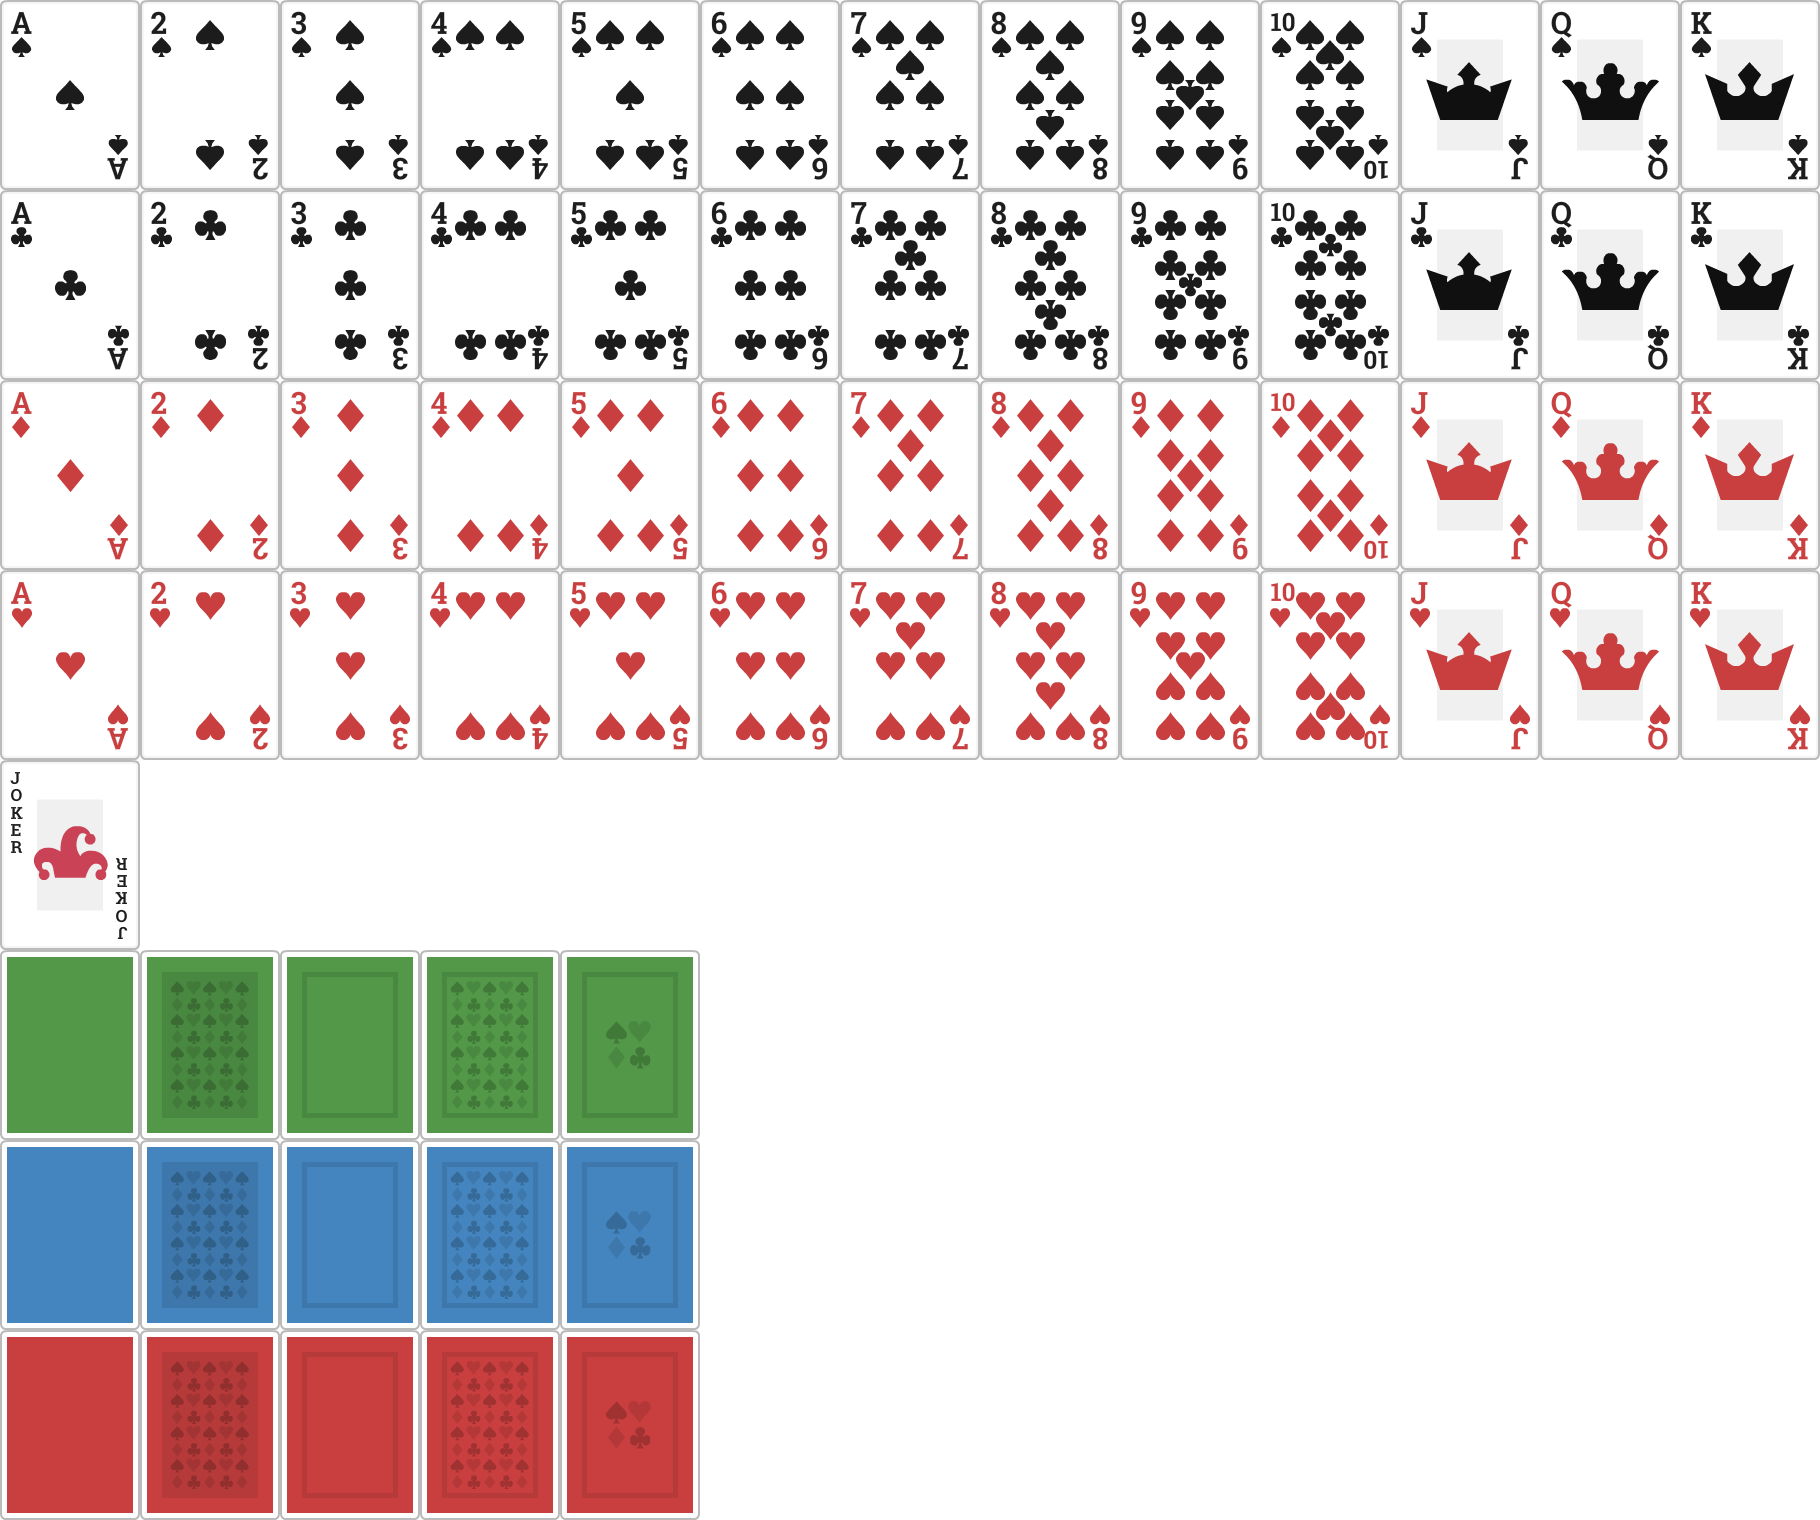
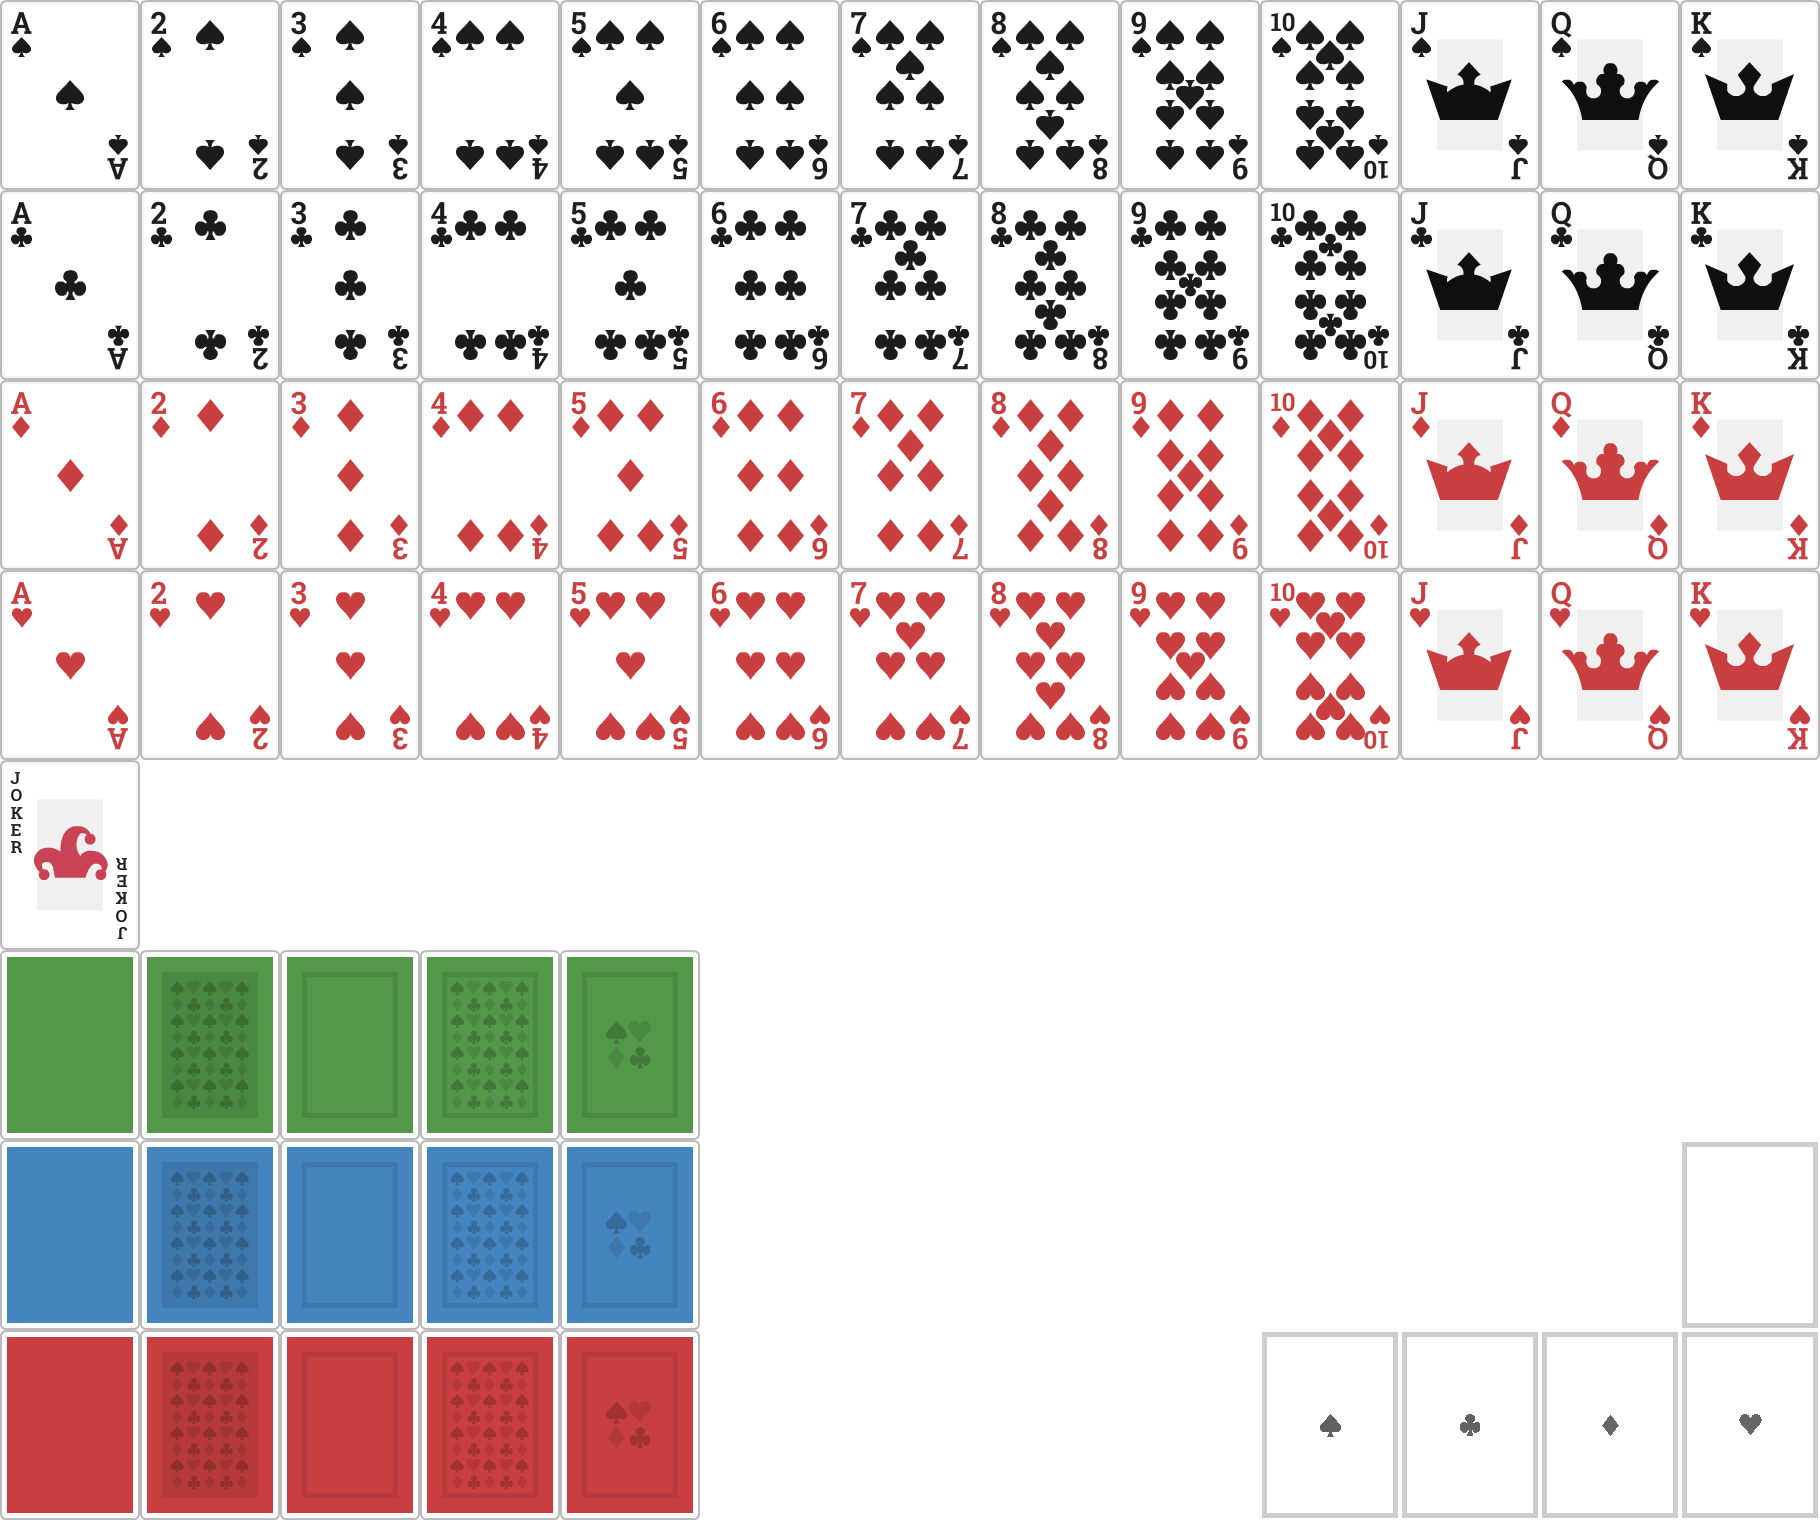
Change empty card stack art

Changed region(s): [[0.6769, 0.7421, 1.0, 1.0], [0.7077, 0.9276, 0.7385, 0.9586]]

diff --git a/src/main.rs b/src/main.rs
@@ -11,6 +11,8 @@ use rand::prelude::*;
 const BACK_GREEN: usize = 5 * 13;
 const BACK_BLUE: usize = 6 * 13;
 const BACK_RED: usize = 7 * 13;
+const FINAL_STACKS: usize = 7 * 13 + 9;
+const EMPTY_SPACE: usize = 6 * 13 + 12;
 
 const CARD_WIDTH: f32 = 140.0;
 const CARD_HEIGHT: f32 = 190.0;
@@ -323,38 +325,38 @@ fn main() {
         .add_event::<Clicked>()
         .add_event::<Dropped>()
         .add_event::<MoveCard>()
-        .add_startup_system(setup.system())
+        .add_startup_system(setup)
         .add_system_set(
             SystemSet::on_enter(GameState::Menu)
-                .with_system(setup_menu.system())
+                .with_system(setup_menu)
         )
         .add_system_set(
             SystemSet::on_update(GameState::Menu)
-                .with_system(main_menu.system())
+                .with_system(main_menu)
         )
         .add_system_set(
             SystemSet::on_enter(GameState::Shuffle)
-                .with_system(reset_cards.system())
+                .with_system(reset_cards)
         )
         .add_system_set_to_stage(
-            // Run these before update so we ar absolutely sure commands are completed early
+            // Run these before update so we are absolutely sure commands are completed early
             CoreStage::PreUpdate,
             SystemSet::new()
-                .with_system(card_move_system.system())
+                .with_system(card_move_system)
         )
         .add_system_set(
             SystemSet::on_update(GameState::Playing)
-                .with_system(click_system.system().label("click"))
-                .with_system(update_click_timers.system().before("click"))
-                .with_system(clicked_system.system().after("click"))
-                .with_system(drag_system.system().label("drag").after("click"))
-                .with_system(drop_system.system().label("drop").before("click"))
-                .with_system(win_check_system.system().after("click"))
-                .with_system(card_texture_update_system.system())
-                .with_system(deck_update_system.system().after("click"))
-                .with_system(debug_duplicate_children.system())
-                .with_system(fixup_children_system.system())
-                .with_system(reset_game_button.system())
+                .with_system(click_system.label("click"))
+                .with_system(update_click_timers.before("click"))
+                .with_system(clicked_system.after("click"))
+                .with_system(drag_system.label("drag").after("click"))
+                .with_system(drop_system.label("drop").before("click"))
+                .with_system(win_check_system.after("click"))
+                .with_system(card_texture_update_system)
+                .with_system(deck_update_system.after("click"))
+                .with_system(debug_duplicate_children)
+                .with_system(fixup_children_system)
+                .with_system(reset_game_button)
         )
         .add_system_set_to_stage(
             // Run the stack cleanup code in postupdate, otherwise there will be a 1 frame
@@ -447,7 +449,7 @@ fn reset_cards(
     mut reset_button: Query<&mut Style, With<ResetButton>>
 ) {
     for entity in cleanup.iter() {
-        commands.entity(entity).despawn();
+        commands.entity(entity).despawn_recursive();
     }
 
     let mut rng = rand::thread_rng();
@@ -477,8 +479,7 @@ fn reset_cards(
             commands.spawn_bundle(SpriteSheetBundle {
                     texture_atlas: card_texture.0.clone(),
                     sprite: TextureAtlasSprite {
-                        color: Color::rgb(0.1, 0.1, 0.1),
-                        index: BACK_BLUE,
+                        index: EMPTY_SPACE,
                         ..Default::default()
                     },
                     transform: Transform::from_xyz(pos.x, pos.y, 0.0),
@@ -536,22 +537,34 @@ fn reset_cards(
 
     let deck_pos = Vec2::new((CARD_WIDTH / 2.0) + 50.0, window.height - 25.0 - (CARD_HEIGHT / 2.0));
     commands.spawn_bundle(SpriteSheetBundle {
+            texture_atlas: card_texture.0.clone(),
+            transform: Transform::from_xyz((CARD_WIDTH / 2.0) + 50.0, window.height - 25.0 - (CARD_HEIGHT / 2.0), 1.0),
+            sprite: TextureAtlasSprite {
+                index: BACK_BLUE,
+                ..Default::default()
+            },
+            ..Default::default()
+        })
+        .insert(Deck {cards: deck})
+        .insert(Clickable::at(deck_pos - Vec2::new(CARD_WIDTH / 2.0, CARD_HEIGHT / 2.0)))
+        .with_children(|parent| {
+            // Empty space below the deck
+            parent.spawn_bundle(SpriteSheetBundle {
                 texture_atlas: card_texture.0.clone(),
-                transform: Transform::from_xyz((CARD_WIDTH / 2.0) + 50.0, window.height - 25.0 - (CARD_HEIGHT / 2.0), 1.0),
+                transform: Transform::from_xyz(0.0, 0.0, -1.0),
                 sprite: TextureAtlasSprite {
-                    index: BACK_BLUE,
+                    index: EMPTY_SPACE,
                     ..Default::default()
                 },
                 ..Default::default()
-            })
-            .insert(Deck {cards: deck})
-            .insert(Clickable::at(deck_pos - Vec2::new(CARD_WIDTH / 2.0, CARD_HEIGHT / 2.0)));
+            });
+        });
 
-    commands.spawn_bundle(SpriteBundle {
-            transform: Transform::from_xyz((CARD_WIDTH / 2.0) + 50.0 + 200.0, window.height - 25.0 - (CARD_HEIGHT / 2.0), 1.0),
-            sprite: Sprite {
-                color: Color::rgb(0.25, 0.5, 0.25),
-                custom_size: Some(Vec2::new(CARD_WIDTH, CARD_HEIGHT)),
+    commands.spawn_bundle(SpriteSheetBundle {
+            transform: Transform::from_xyz((CARD_WIDTH / 2.0) + 50.0 + 175.0, window.height - 25.0 - (CARD_HEIGHT / 2.0), 1.0),
+            texture_atlas: card_texture.0.clone(),
+            sprite: TextureAtlasSprite {
+                index: EMPTY_SPACE,
                 ..Default::default()
             },
             ..Default::default()
@@ -561,13 +574,11 @@ fn reset_cards(
     for suit in [Suit::Spades, Suit::Clubs, Suit::Hearts, Suit::Diamonds] {
         let stack_x = (deck_pos.x + (175.0 * 3.0)) + (175.0 * suit.row() as f32);
         let stack_pos = Vec2::new(stack_x, deck_pos.y);
-        let suit_index = Card {kind: CardKind::Ace, suit: suit}.texture_index();
         // TODO: Add texture for suits
         commands.spawn_bundle(SpriteSheetBundle {
             texture_atlas: card_texture.0.clone(),
             sprite: TextureAtlasSprite {
-                color: Color::rgb(0.5, 0.5, 0.5),
-                index: suit_index,
+                index: FINAL_STACKS + suit.row(),
                 ..Default::default()
             },
             transform: Transform::from_xyz(stack_pos.x, stack_pos.y, 0.0),
@@ -584,7 +595,7 @@ fn reset_cards(
     game_state.set(GameState::Playing).unwrap();
 }
 
-fn setup_menu(mut commands: Commands, asset_server: Res<AssetServer>, mut reset_button: Query<&mut Style, With<ResetButton>>, font: Res<FontHandle>) {
+fn setup_menu(mut commands: Commands, font: Res<FontHandle>, mut reset_button: Query<&mut Style, With<ResetButton>>) {
     commands
         .spawn_bundle(ButtonBundle {
             style: Style {
